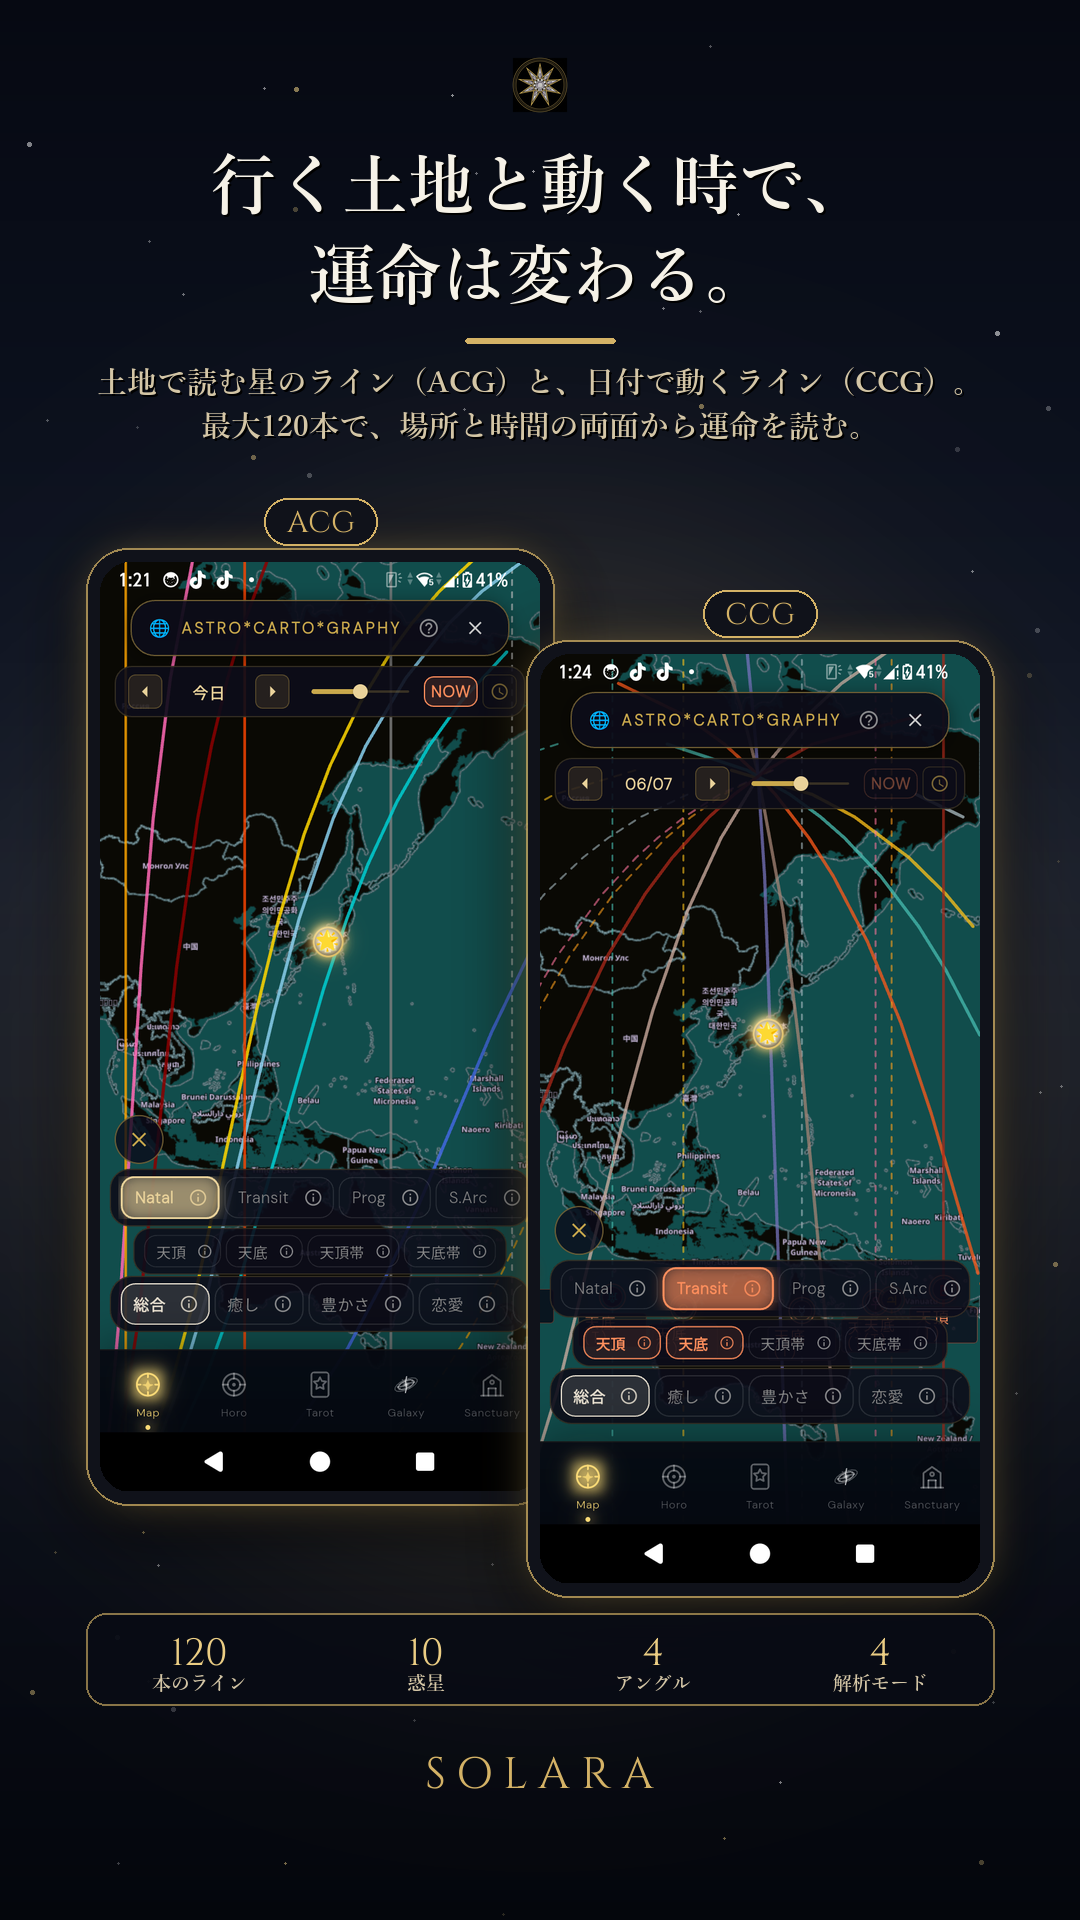
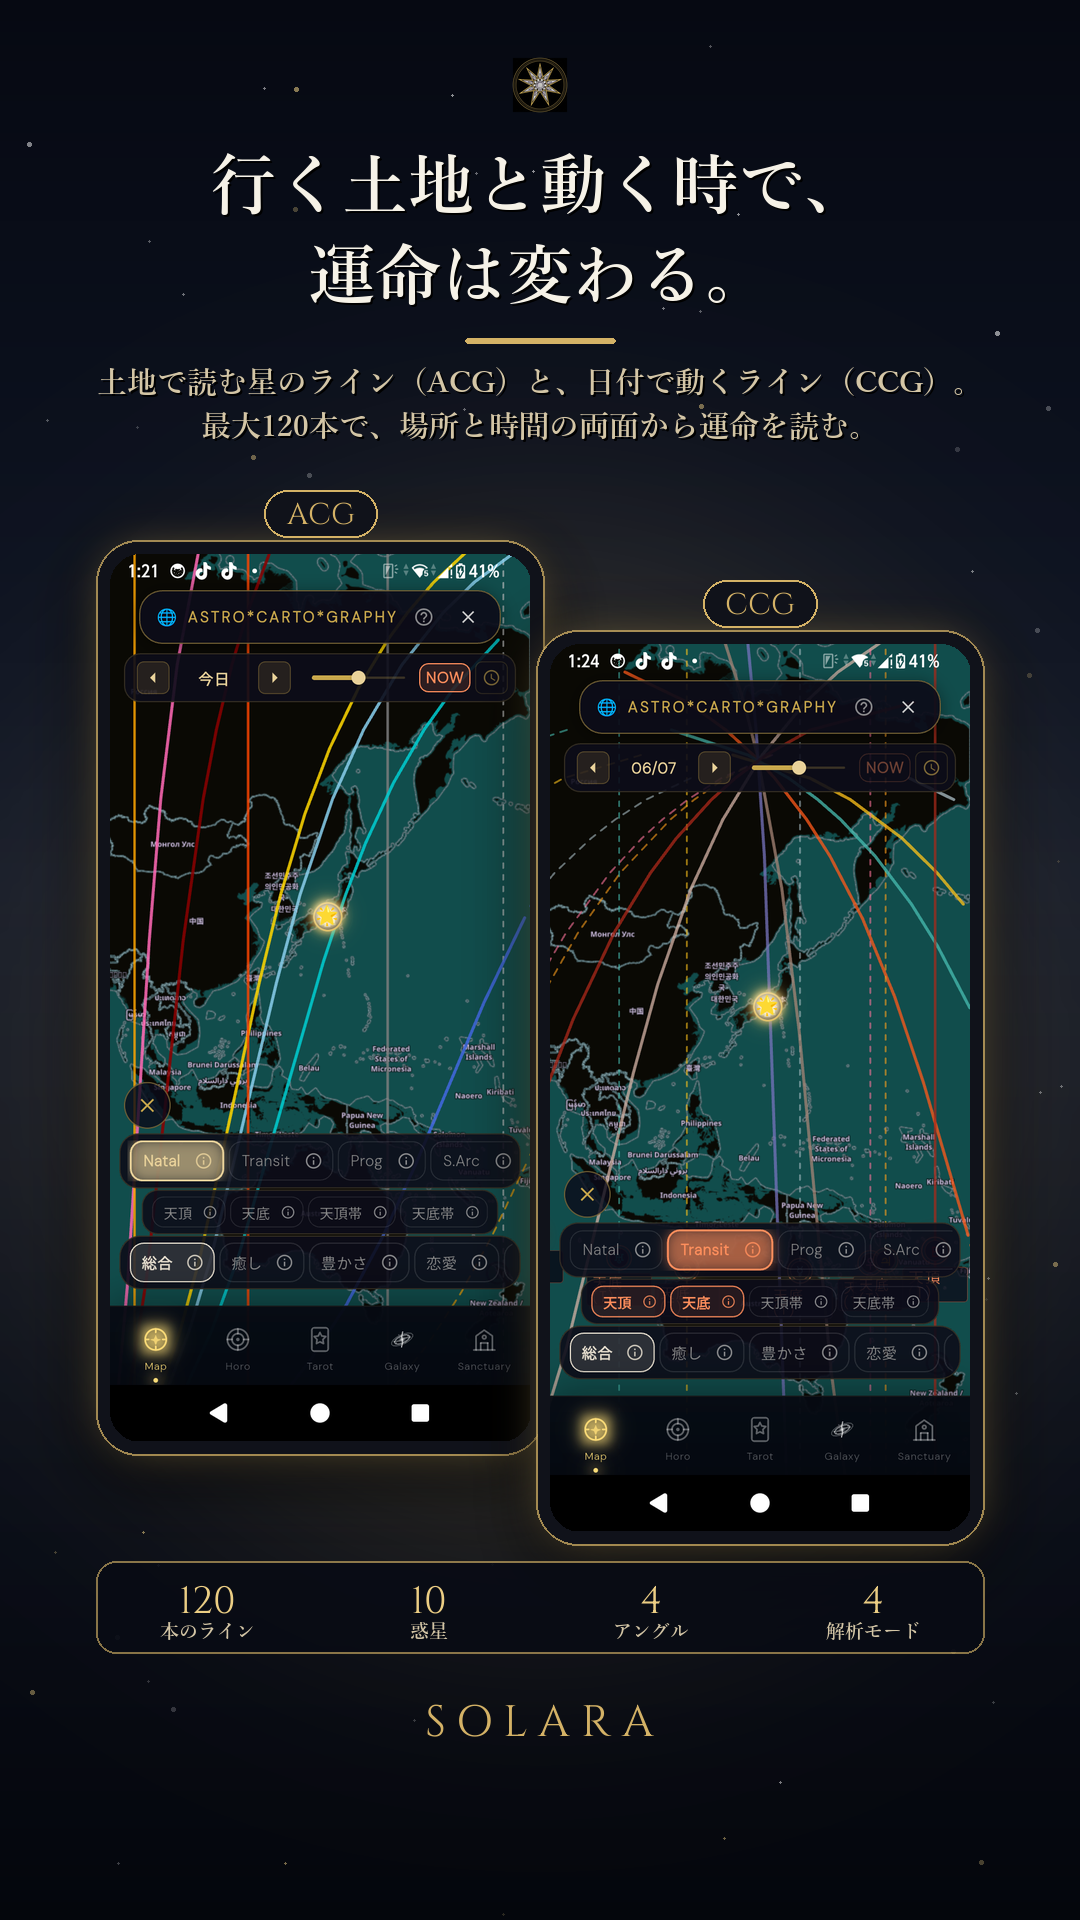
feat(solara): Stella数値バー上にPro機能含む解析説明文を追加
05 の数値バーの少し上(端末下の余白)に lead 文「膨大な占星術データを総合解析し、行くべき場所・時間帯・理由をひとつの答えに。Proは週100回＋時刻指定で30分後の変化まで。」を配置(端末上部は隠さない)。2枚配置は sw440→420 に微縮小して下余白を確保(ACG/CCGも追従、内容不変)。

Changed region(s): [[0.0611, 0.25, 0.9472, 0.9375], [0.1528, 0.8125, 0.2139, 0.875]]

diff --git a/apps/solara/tools/make_store_screenshots.py b/apps/solara/tools/make_store_screenshots.py
@@ -104,7 +104,10 @@ SCREENS = [
      "lines": ["お出かけも、移住も。", "ぜんぶ星に相談。"],
      "sub":   ["毎日のお出かけから、人生の移住まで。",
                "場面とテーマを選ぶだけで星が読み解く。"],
-     "stats": {"items": [["246", "国・地域"], ["488,270", "都市"],
+     "stats": {"lead": ["膨大な占星術データを総合解析し、",
+                        "行くべき場所・時間帯・理由をひとつの答えに。",
+                        "Proは週100回＋時刻指定で30分後の変化まで。"],
+               "items": [["246", "国・地域"], ["488,270", "都市"],
                          ["10", "惑星"], ["1,500", "地点採点"]]}},
     {"slug": "horoscope",
      "lines": ["精密な出生図が、", "すべての土台。"],
@@ -332,10 +335,18 @@ def draw_stats_overlay(canvas, box, stats):
 
 
 def draw_stats_bar(canvas, boxes, stats):
-    """2枚配置 (ACG+CCG) の下に横一列の数値バーを置く。(canvas, 下端y) を返す。"""
+    """2枚配置の下に (任意の lead 説明文 +) 横一列の数値バーを置く。(canvas, 下端y) を返す。"""
     x0 = min(b[0] for b in boxes)
     x1 = max(b[0] + b[2] for b in boxes)
     top = max(b[1] + b[3] for b in boxes) + 16
+    # lead: 数値バーの少し上に置く説明文 (端末の下=ナビ領域に被せず、その下の余白に)
+    lead = stats.get("lead", [])
+    if lead:
+        ld = ImageDraw.Draw(canvas)
+        lf = fit_font(ld, lead, max_w=(x1 - x0), start=30, min_size=22)
+        top = draw_centered_lines(canvas, lead, top_y=top, font=lf,
+                                  fill=SUB_TEXT, line_gap=1.3)
+        top += 14
     items = stats.get("items", [])
     h = 92
     panel = Image.new("RGBA", (W, H), (0, 0, 0, 0))
@@ -368,8 +379,8 @@ def compose_one(screen, pos) -> str:
     raw2 = screen.get("raw2")
     if raw2:
         labels = screen.get("labels", [None, None])
-        sw = 440
-        layout = [(raw, labels[0], 86, 548), (raw2, labels[1], 526, 640)]
+        sw = 420
+        layout = [(raw, labels[0], 96, 540), (raw2, labels[1], 536, 630)]
         boxes = []
         for rname, lab, ph_x, ph_y in layout:
             rp = os.path.join(RAW_DIR, rname + ".png")
